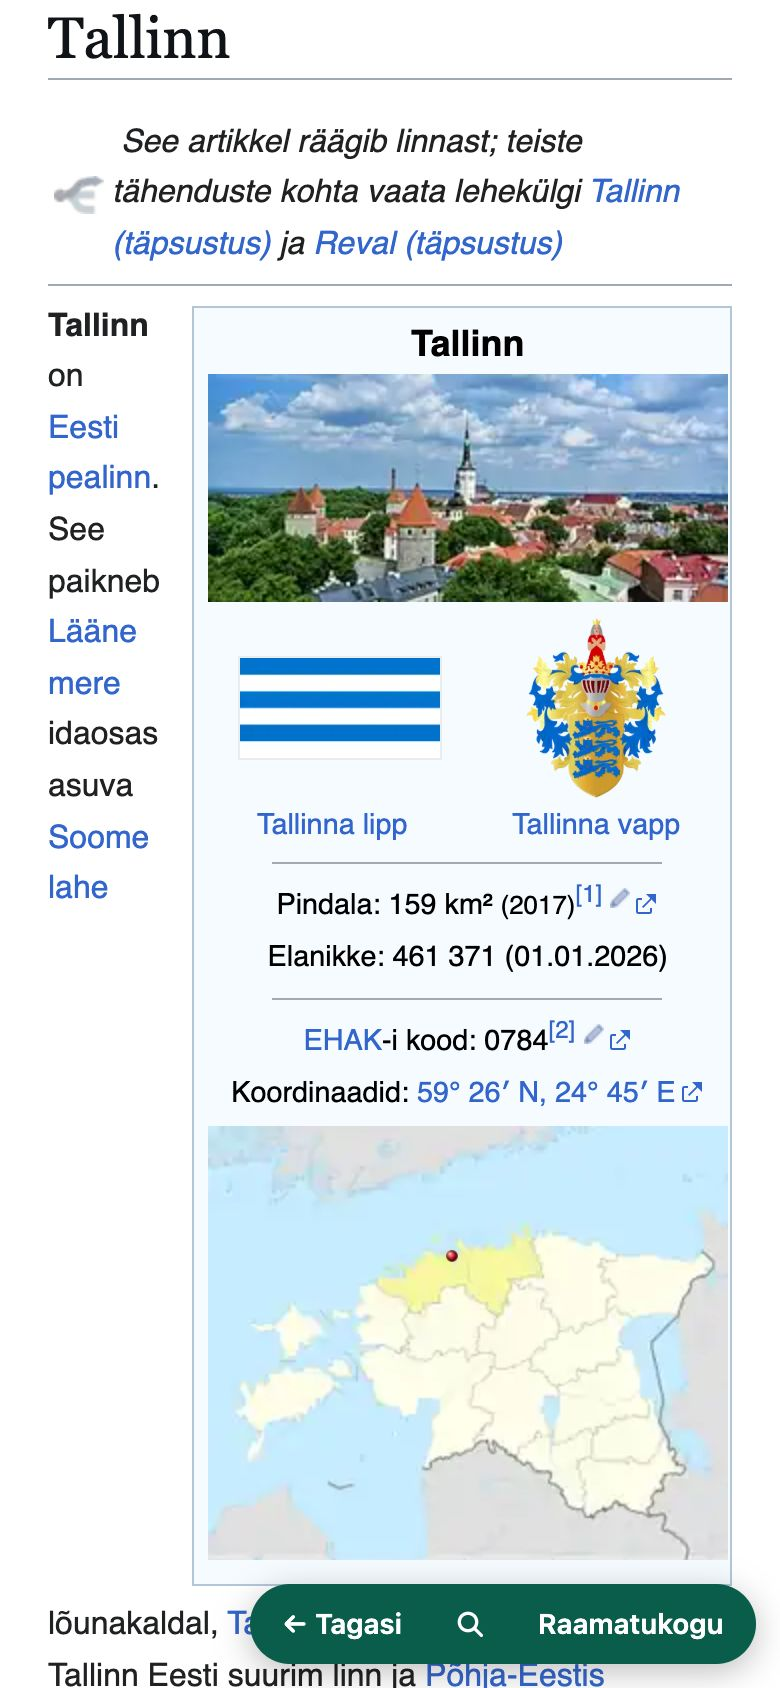
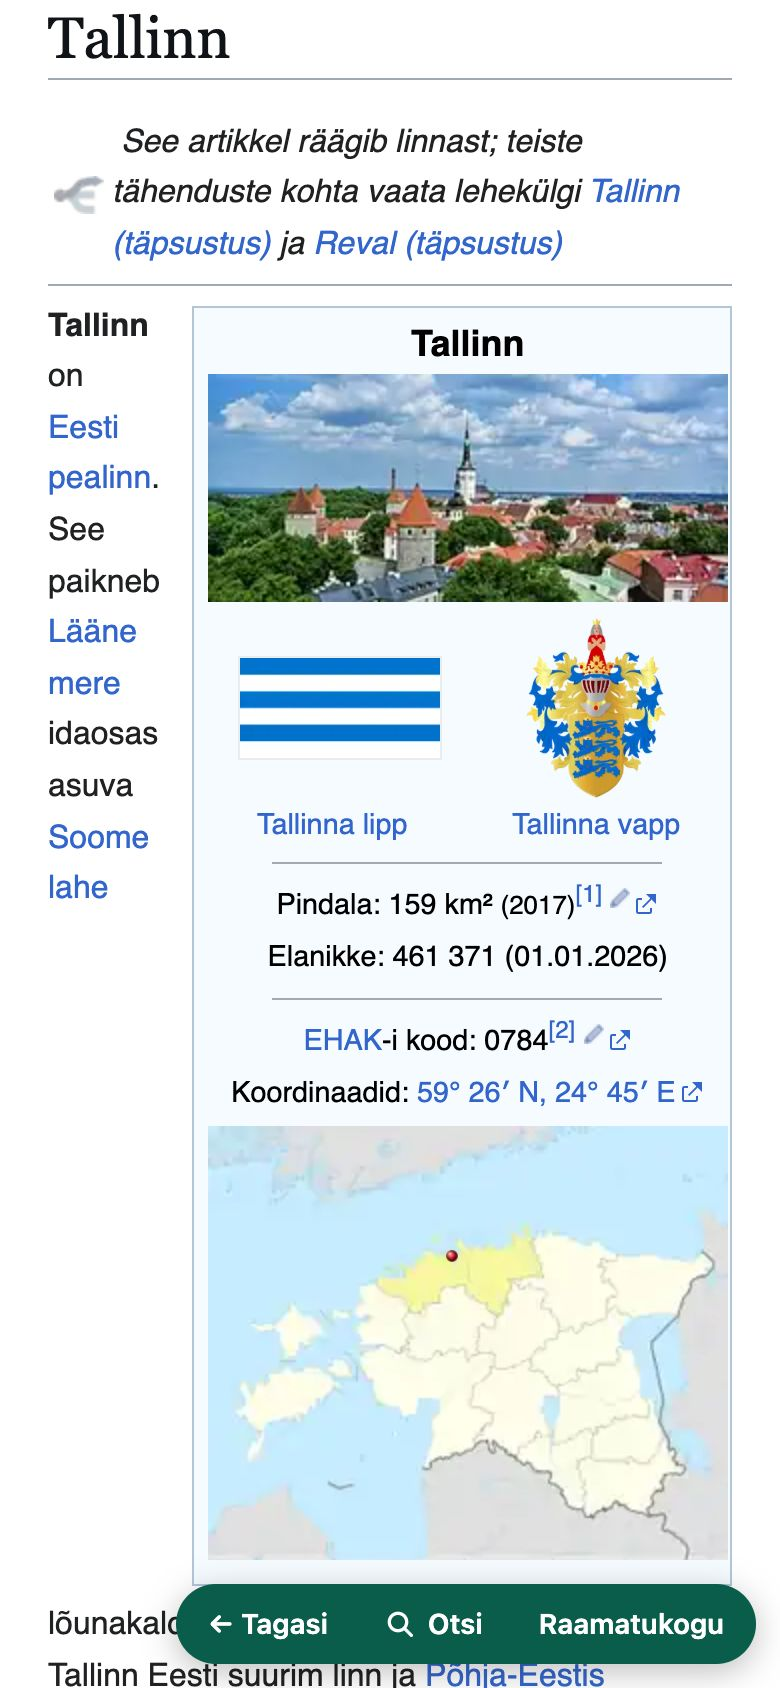
Books open on their own search page
Opening a book shows a search page for that book (titles first, then
articles with the words) with a link to the book's front page, instead of
jumping to the front page. The bar on every page gets a labelled Search
that returns there; the library page still searches every book.

diff --git a/viewer/js/library.js b/viewer/js/library.js
@@ -1,5 +1,7 @@
 // The library page: the books on the drive, and search across all of them:
 // titles first, then articles containing the words (launcher /api/library).
+// At /library/<book>/ the same page searches that one book, with a link to
+// the book's own front page.
 
 import { applyStrings, currentLanguage, loadManifest, t } from "./common.js";
 
@@ -9,7 +11,9 @@ const [manifest, books] = await Promise.all([
 ]);
 const lang = currentLanguage(manifest);
 applyStrings(lang);
-document.title = t(lang, "library");
+const bookId = decodeURIComponent(location.pathname.split("/")[2] ?? "");
+const book = books.find((b) => b.id === bookId);
+document.title = book?.title ?? t(lang, "library");
 
 const el = (tag, props = {}, ...children) => {
   const node = Object.assign(document.createElement(tag), props);
@@ -18,20 +22,30 @@ const el = (tag, props = {}, ...children) => {
 };
 const titleOf = Object.fromEntries(books.map((b) => [b.id, b.title]));
 
-document.getElementById("empty").hidden = books.length > 0;
-document.getElementById("search").hidden = books.length === 0;
-document.getElementById("books").replaceChildren(...books.map((b) => {
+function card(b, href, title, text) {
   const icon = el("img", { src: `/api/library/icon?book=${encodeURIComponent(b.id)}`, alt: "", width: 48, height: 48 });
   icon.addEventListener("error", () => icon.remove());
-  return el("a", { className: "card", href: `/library/${encodeURIComponent(b.id)}/` },
-    icon, el("h2", { textContent: b.title }), el("p", { textContent: b.description }));
-}));
+  return el("a", { className: "card", href }, icon, el("h2", { textContent: title }), el("p", { textContent: text }));
+}
+document.getElementById("empty").hidden = books.length > 0;
+document.getElementById("search").hidden = books.length === 0;
+document.getElementById("books").replaceChildren(...(book
+  ? (book.home ? [card(book, book.home, t(lang, "frontPage"), book.description)] : [])
+  : books.map((b) => card(b, `/library/${encodeURIComponent(b.id)}/`, b.title, b.description))));
+if (book) {
+  document.querySelector("h1").textContent = book.title;
+  const up = document.querySelector(".back");
+  up.href = "/library/";
+  up.textContent = t(lang, "library");
+}
 
 const input = document.getElementById("q");
 const hits = document.getElementById("hits");
 const none = document.getElementById("no-hits");
-input.placeholder = t(lang, "searchLibrary");
-input.setAttribute("aria-label", t(lang, "searchLibrary"));
+const all = document.getElementById("all-books");
+const hint = t(lang, book ? "searchBook" : "searchLibrary");
+input.placeholder = hint;
+input.setAttribute("aria-label", hint);
 
 // Shows which books cannot be searched inside yet, and checks again until
 // they can.
@@ -43,7 +57,7 @@ function showPreparing(list) {
 }
 async function watchPreparing() {
   const list = (await fetch("/api/library").then((res) => res.json()).catch(() => []))
-    .filter((b) => b.search === "preparing").map((b) => ({ title: b.title, progress: b.progress ?? 0 }));
+    .filter((b) => b.search === "preparing" && (!book || b.id === book.id)).map((b) => ({ title: b.title, progress: b.progress ?? 0 }));
   showPreparing(list);
   if (list.length) setTimeout(watchPreparing, 3000);
 }
@@ -70,18 +84,21 @@ async function search() {
   const q = input.value.trim();
   history.replaceState(null, "", q ? `?q=${encodeURIComponent(q)}` : location.pathname);
   request?.abort();
+  all.hidden = !book || books.length < 2 || !q;
+  all.href = `/library/?q=${encodeURIComponent(q)}`;
   if (!q) {
     hits.replaceChildren();
     none.hidden = true;
     return;
   }
   request = new AbortController();
+  const only = book ? `&book=${encodeURIComponent(book.id)}` : "";
   try {
-    const found = await (await fetch(`/api/library/search?q=${encodeURIComponent(q)}`, { signal: request.signal })).json();
+    const found = await (await fetch(`/api/library/search?q=${encodeURIComponent(q)}${only}`, { signal: request.signal })).json();
     hits.replaceChildren(...found.hits.map((hit) => el("li", {},
       el("div", {}, el("a", { href: hit.url, textContent: hit.title }),
         ...(hit.snippet ? [el("p", { className: "snippet" }, ...highlight(hit.snippet, q))] : [])),
-      el("span", { className: "size", textContent: titleOf[hit.book] ?? hit.book }))));
+      ...(book ? [] : [el("span", { className: "size", textContent: titleOf[hit.book] ?? hit.book })]))));
     none.hidden = found.hits.length > 0;
     showPreparing(found.preparing);
   } catch (err) {

diff --git a/viewer/js/library-bar.js b/viewer/js/library-bar.js
@@ -1,6 +1,6 @@
 // A small bar the launcher adds to every page of a library book: back,
-// search, and to the library. In a shadow root, so the book's own
-// styles cannot touch it.
+// search in this book, and to the library. In a shadow root, so the book's
+// own styles cannot touch it.
 
 import { stored, t } from "/js/common.js";
 
@@ -15,44 +15,21 @@ root.innerHTML = `<style>
     box-shadow: 0 4px 16px rgb(0 0 0 / 0.25); font: 600 14px/1 system-ui, -apple-system, "Segoe UI", sans-serif; }
   a, button { all: unset; cursor: pointer; color: #fff; padding: 9px 13px; border-radius: 999px; white-space: nowrap; }
   a:hover, button:hover, a:focus-visible, button:focus-visible { background: rgb(255 255 255 / 0.2); }
-  form { display: flex; align-items: center; margin: 0; }
-  form button { display: flex; padding: 9px 11px; }
-  /* 16px keeps phones from zooming in on the field. */
-  input { all: unset; width: min(14em, 45vw); padding: 7px 12px; border-radius: 999px; background: #fff;
-    color: #1d1d1b; font: 400 16px/1.2 system-ui, -apple-system, "Segoe UI", sans-serif; }
-  input[hidden] { display: none; }
-  /* On a phone the open field takes the whole bar. */
-  @media (max-width: 600px) { nav.searching > button, nav.searching > a { display: none; } }
+  a.find { display: flex; align-items: center; gap: 6px; }
   @media print { nav { display: none; } }
 </style>
-<nav><button type="button"></button><form role="search"><input type="search" enterkeyhint="search" autocomplete="off" hidden><button type="submit"><svg width="16" height="16" viewBox="0 0 24 24" fill="none" stroke="currentColor" stroke-width="2.5" stroke-linecap="round" aria-hidden="true"><circle cx="10.5" cy="10.5" r="6.5"/><path d="m15.5 15.5 5 5"/></svg></button></form><a href="/library/"></a></nav>`;
+<nav><button type="button"></button><a class="find"><svg width="16" height="16" viewBox="0 0 24 24" fill="none" stroke="currentColor" stroke-width="2.5" stroke-linecap="round" aria-hidden="true"><circle cx="10.5" cy="10.5" r="6.5"/><path d="m15.5 15.5 5 5"/></svg><span></span></a><a href="/library/"></a></nav>`;
 
 const back = root.querySelector("nav > button");
-const library = root.querySelector("a");
+const library = root.querySelector('a[href="/library/"]');
 back.textContent = `← ${t(lang, "back")}`;
 library.textContent = t(lang, "library");
 
-// Search: the button opens the field, Enter shows the library's results
-// (titles first, then articles, across every book).
-const find = root.querySelector("form");
-const field = find.querySelector("input");
-const findButton = find.querySelector("button");
-field.placeholder = t(lang, "searchLibrary");
-field.setAttribute("aria-label", t(lang, "searchLibrary"));
-findButton.setAttribute("aria-label", t(lang, "searchLibrary"));
-const showField = (open) => {
-  field.hidden = !open;
-  root.querySelector("nav").classList.toggle("searching", open);
-  if (open) field.focus();
-  place();
-};
-find.addEventListener("submit", (event) => {
-  event.preventDefault();
-  const q = field.value.trim();
-  if (field.hidden || !q) return showField(field.hidden);
-  location.assign(`/library/?q=${encodeURIComponent(q)}`);
-});
-field.addEventListener("keydown", (event) => { if (event.key === "Escape") showField(false); });
+// Search opens this book's own search page (/library/<book>/).
+const find = root.querySelector("a.find");
+find.href = `/library/${location.pathname.split("/")[2]}/`;
+find.querySelector("span").textContent = t(lang, "search");
+
 // A page opened in its own window has nowhere to go back to.
 back.addEventListener("click", () => (history.length > 1 ? history.back() : location.assign("/library/")));
 document.body.append(host);

diff --git a/viewer/js/common.js b/viewer/js/common.js
@@ -64,6 +64,10 @@ const STRINGS = {
     snapNote: "Starts or ends {n} from the nearest road or path.",
     routeSafety: "Estimate from OpenStreetMap. Follow road signs.",
     searchLibrary: "Search the library",
+    search: "Search",
+    searchBook: "Search for an article or a word",
+    frontPage: "The book's front page",
+    searchAll: "Search all books",
     noHits: "Nothing found.",
     searchPreparing: "Preparing search inside {book}: {n}%. Titles can be searched already.",
     noBooks: "There are no books on this drive.",
@@ -131,6 +135,10 @@ const STRINGS = {
     snapNote: "Algab või lõpeb lähimast teest või rajast {n} kaugusel.",
     routeSafety: "Hinnang OpenStreetMapi põhjal. Järgi liiklusmärke.",
     searchLibrary: "Otsi raamatukogust",
+    search: "Otsi",
+    searchBook: "Otsi artiklit või sõna",
+    frontPage: "Raamatu esileht",
+    searchAll: "Otsi kõigist raamatutest",
     noHits: "Midagi ei leitud.",
     searchPreparing: "Valmistan ette otsingut raamatus {book}: {n}%. Pealkirju saab juba otsida.",
     noBooks: "Sellel mälupulgal pole raamatuid.",

diff --git a/viewer/library.html b/viewer/library.html
@@ -23,6 +23,7 @@
     <p id="preparing" class="meta" hidden></p>
     <ul id="hits" class="doc-list"></ul>
     <p id="no-hits" class="meta" hidden data-i18n="noHits">Nothing found.</p>
+    <p class="meta"><a id="all-books" hidden data-i18n="searchAll">Search all books</a></p>
 
     <section class="cards" id="books" aria-label="Books"></section>
     <p id="empty" class="meta" hidden data-i18n="noBooks">There are no books on this drive.</p>

diff --git a/launcher/server_test.go b/launcher/server_test.go
@@ -20,6 +20,7 @@ func newDrive(t *testing.T) string {
 	root := t.TempDir()
 	files := map[string]string{
 		"app/index.html":        "<h1>home</h1>",
+		"app/library.html":      "<h1>library</h1>",
 		"app/vendor/lib.mjs":    "export default 1;",
 		"app/assets/readme.txt": "no index here",
 		"app/.secret":           "hidden",
@@ -176,16 +177,16 @@ func TestLibrary(t *testing.T) {
 	if _, status := get(t, h, "/api/status", nil); !strings.Contains(status, `"library":true`) {
 		t.Errorf("status %q", status)
 	}
-	if _, books := get(t, h, "/api/library", nil); !strings.Contains(books, `"id":"wikipedia_et","title":"Vikipeedia"`) || !strings.Contains(books, `"search":"ready"`) {
+	if _, books := get(t, h, "/api/library", nil); !strings.Contains(books, `"id":"wikipedia_et","title":"Vikipeedia"`) || !strings.Contains(books, `"search":"ready"`) ||
+		!strings.Contains(books, `"home":"/library/wikipedia_et/Tallinn"`) {
 		t.Errorf("books %s", books)
 	}
-	for path, want := range map[string]string{
-		"/library/wikipedia_et/":      "/library/wikipedia_et/Tallinn",
-		"/library/wikipedia_et/Reval": "/library/wikipedia_et/Tallinn",
-	} {
-		if res, _ := get(t, h, path, nil); res.StatusCode != http.StatusFound || res.Header.Get("Location") != want {
-			t.Errorf("%s: %d to %q, want %s", path, res.StatusCode, res.Header.Get("Location"), want)
-		}
+	// A book opens on its own search page; a redirect title leads to its article.
+	if res, page := get(t, h, "/library/wikipedia_et/", nil); res.StatusCode != http.StatusOK || page != "<h1>library</h1>" {
+		t.Errorf("book page %d %q", res.StatusCode, page)
+	}
+	if res, _ := get(t, h, "/library/wikipedia_et/Reval", nil); res.StatusCode != http.StatusFound || res.Header.Get("Location") != "/library/wikipedia_et/Tallinn" {
+		t.Errorf("redirect: %d to %q", res.StatusCode, res.Header.Get("Location"))
 	}
 	res, page := get(t, h, "/library/wikipedia_et/Tallinn", nil)
 	if res.StatusCode != http.StatusOK || !strings.Contains(page, `library-bar.js"></script></head><body>capital`) {
@@ -203,6 +204,12 @@ func TestLibrary(t *testing.T) {
 	}
 	if _, hits := get(t, h, "/api/library/search?q=university", nil); !strings.Contains(hits, `"title":"Tartu","url":"/library/wikipedia_et/Tartu","snippet":"`) {
 		t.Errorf("text search %s", hits)
+	}
+	if _, hits := get(t, h, "/api/library/search?q=ta&book=wikipedia_et", nil); !strings.Contains(hits, "Tallinn") {
+		t.Errorf("one book's search %s", hits)
+	}
+	if _, hits := get(t, h, "/api/library/search?q=ta&book=other", nil); strings.Contains(hits, "Tallinn") {
+		t.Errorf("another book's search found %s", hits)
 	}
 }
 

diff --git a/launcher/library.go b/launcher/library.go
@@ -140,11 +140,17 @@ func (l *library) register(mux *http.ServeMux) {
 			Language    string `json:"language"`
 			Search      string `json:"search"` // "ready", "preparing" or "titles" (only)
 			Progress    int    `json:"progress,omitempty"`
+			Home        string `json:"home,omitempty"` // the book's own front page
 		}
 		list := []info{}
 		for _, id := range l.order {
 			b := l.books[id]
 			i := info{ID: b.ID, Title: b.Title, Description: b.Description, Language: b.Language, Search: "titles"}
+			if main, err := b.a.MainPage(); err == nil {
+				if main, err = b.a.Resolve(main); err == nil {
+					i.Home = b.url(main)
+				}
+			}
 			if b.index.Load() != nil {
 				i.Search = "ready"
 			} else if p := b.progress.Load(); p >= 0 {
@@ -185,15 +191,9 @@ func (l *library) serve(w http.ResponseWriter, r *http.Request) {
 		return
 	}
 	if path == "" {
-		main, err := b.a.MainPage()
-		if err == nil {
-			main, err = b.a.Resolve(main)
-		}
-		if err != nil {
-			messagePage(w, http.StatusNotFound, "No start page", "This book has no start page; search it from the library.", false)
-			return
-		}
-		http.Redirect(w, r, b.url(main), http.StatusFound)
+		// A book opens on its own search page (library.js), with a link to the
+		// book's front page, rather than straight on that front page.
+		http.ServeFile(w, r, filepath.Join(l.root, "app", "library.html"))
 		return
 	}
 	ns := b.a.ContentNamespace()
@@ -281,6 +281,11 @@ type hit struct {
 func (l *library) search(w http.ResponseWriter, r *http.Request) {
 	l.open()
 	q := strings.TrimSpace(r.URL.Query().Get("q"))
+	only := r.URL.Query().Get("book") // one book's search page; empty for all
+	titleCount := 3
+	if only != "" {
+		titleCount = 8
+	}
 	type preparing struct {
 		Title    string `json:"title"`
 		Progress int    `json:"progress"`
@@ -292,6 +297,9 @@ func (l *library) search(w http.ResponseWriter, r *http.Request) {
 	seen := map[string]bool{}
 	var text []hit
 	for _, id := range l.order {
+		if only != "" && id != only {
+			continue
+		}
 		b := l.books[id]
 		if p := b.progress.Load(); p >= 0 {
 			out.Preparing = append(out.Preparing, preparing{b.Title, int(p)})
@@ -299,7 +307,7 @@ func (l *library) search(w http.ResponseWriter, r *http.Request) {
 		if q == "" {
 			continue
 		}
-		titles, err := b.a.Titles(q, 3)
+		titles, err := b.a.Titles(q, titleCount)
 		if err != nil {
 			log.Printf("Library search in %s: %v", id, err)
 		}

diff --git a/README.md b/README.md
@@ -250,15 +250,17 @@ a hospital or shelter (**Tartu Ülikooli Kliinikum**).
 
 <table>
   <tr>
-    <td align="center" width="50%"><img src="docs/images/en/library.jpg" width="260" alt="Library search"><br><sub>Search across every book</sub></td>
-    <td align="center" width="50%"><img src="docs/images/en/article.jpg" width="260" alt="An article with Varu's bar"><br><sub>Reading Vikipeedia: <b>← Back</b>, 🔍 search, <b>Library</b></sub></td>
+    <td align="center" width="50%"><img src="docs/images/en/library.jpg" width="260" alt="Searching Vikipeedia"><br><sub>Opening Vikipeedia: search it straight away</sub></td>
+    <td align="center" width="50%"><img src="docs/images/en/article.jpg" width="260" alt="An article with Varu's bar"><br><sub>Reading Vikipeedia: <b>← Back</b>, <b>🔍 Search</b>, <b>Library</b></sub></td>
   </tr>
 </table>
 
-- Type in the search box: matching **titles** come first, then **articles
-  that mention your words**, with the words highlighted.
-- Inside a book, the green bar at the bottom has **Back**, a **🔍 search**
-  button and **Library**.
+- Opening a book shows its own search page. Type in the box: matching
+  **titles** come first, then **articles that mention your words**, with the
+  words highlighted. The book's front page is one tap below the box.
+- Inside a book, the green bar at the bottom has **Back**, **🔍 Search** (back
+  to that book's search) and **Library**.
+- The **Library** page searches every book at once.
 - Longer words also find their other forms: *tallinn* finds *Tallinnas*.
 
 ---

diff --git a/README.et.md b/README.et.md
@@ -251,14 +251,17 @@ varjumiskoht (**Tartu Ülikooli Kliinikum**).
 
 <table>
   <tr>
-    <td align="center" width="50%"><img src="docs/images/et/library.jpg" width="260" alt="Otsing raamatukogus"><br><sub>Otsing kõigist raamatutest korraga</sub></td>
-    <td align="center" width="50%"><img src="docs/images/et/article.jpg" width="260" alt="Artikkel Varu ribaga"><br><sub>Vikipeedia lugemine: <b>← Tagasi</b>, 🔍 otsing, <b>Raamatukogu</b></sub></td>
+    <td align="center" width="50%"><img src="docs/images/et/library.jpg" width="260" alt="Otsing Vikipeediast"><br><sub>Vikipeedia avaneb otsinguga</sub></td>
+    <td align="center" width="50%"><img src="docs/images/et/article.jpg" width="260" alt="Artikkel Varu ribaga"><br><sub>Vikipeedia lugemine: <b>← Tagasi</b>, <b>🔍 Otsi</b>, <b>Raamatukogu</b></sub></td>
   </tr>
 </table>
 
-- Kirjuta otsingukasti: esmalt tulevad sobivad **pealkirjad**, siis **artiklid,
-  milles su sõnad esinevad**, ja sõnad on esile tõstetud.
-- Raamatu sees on all rohelisel ribal **Tagasi**, **🔍 otsingunupp** ja **Raamatukogu**.
+- Raamat avaneb oma otsinguleheküljega. Kirjuta otsingukasti: esmalt tulevad
+  sobivad **pealkirjad**, siis **artiklid, milles su sõnad esinevad**, ja sõnad
+  on esile tõstetud. Raamatu esileht on kasti all.
+- Raamatu sees on all rohelisel ribal **Tagasi**, **🔍 Otsi** (tagasi selle
+  raamatu otsingusse) ja **Raamatukogu**.
+- **Raamatukogu** leheküljel saab otsida kõigist raamatutest korraga.
 - Pikemad sõnad leiavad ka teisi vorme: *tallinn* leiab *Tallinnas*.
 
 ---
